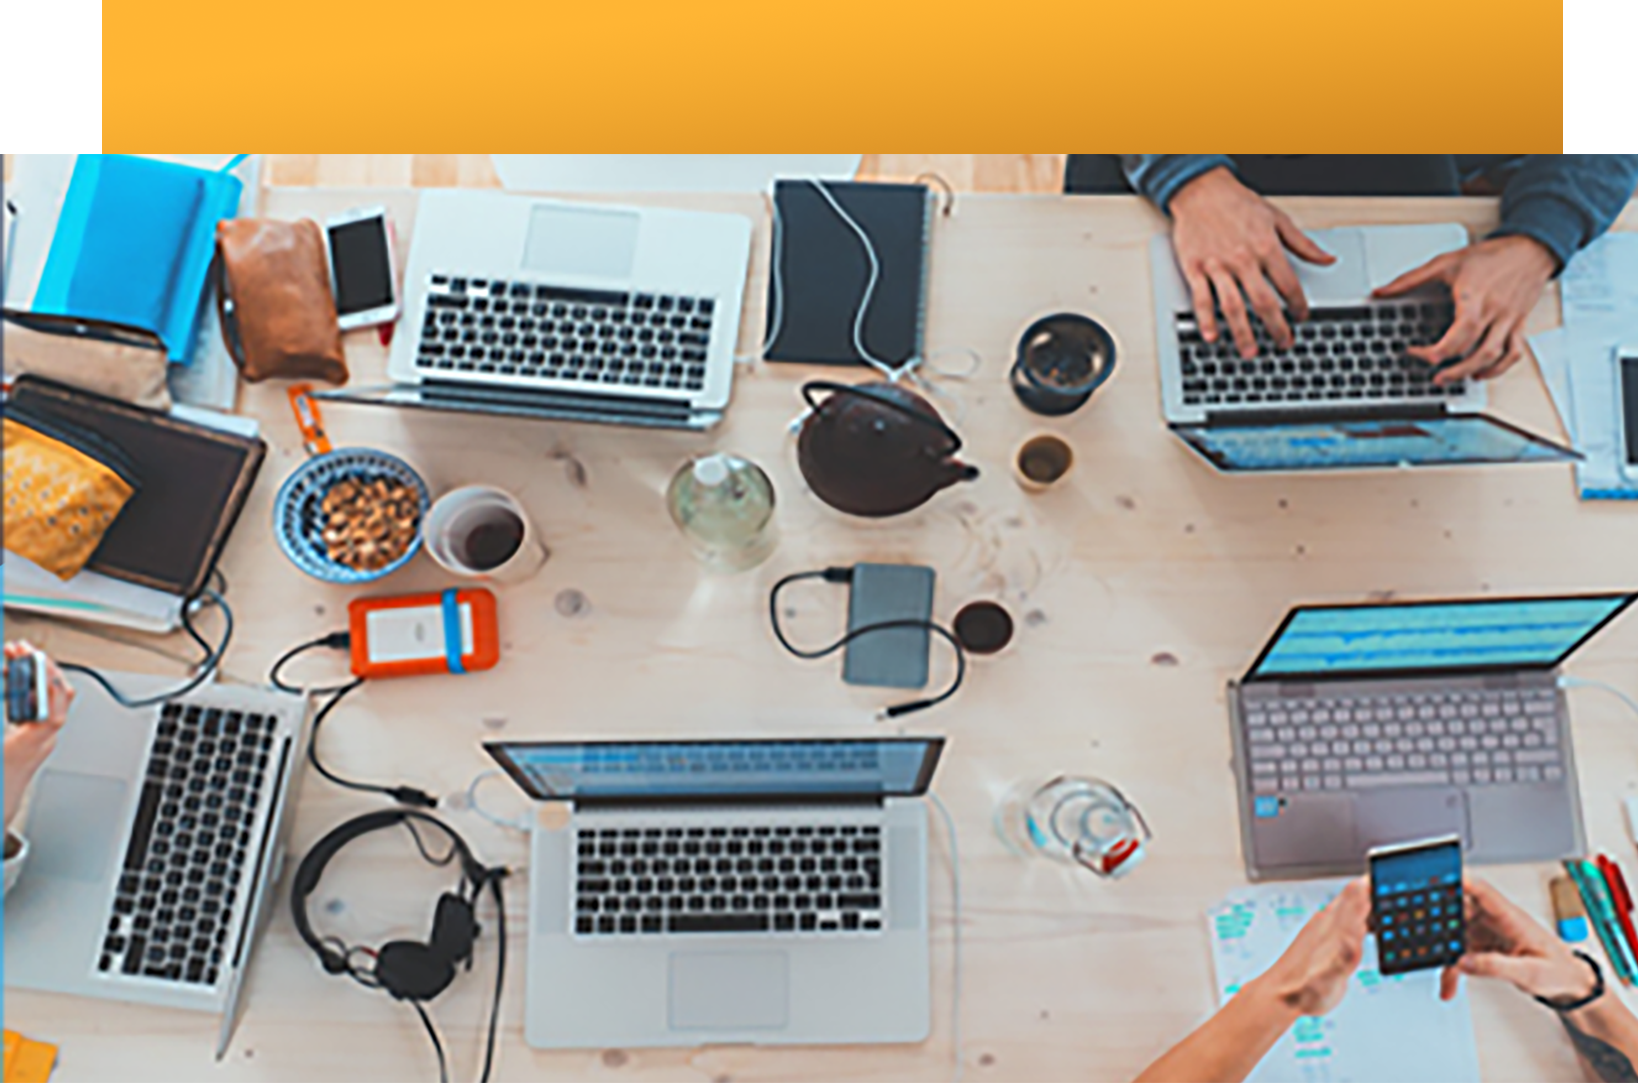
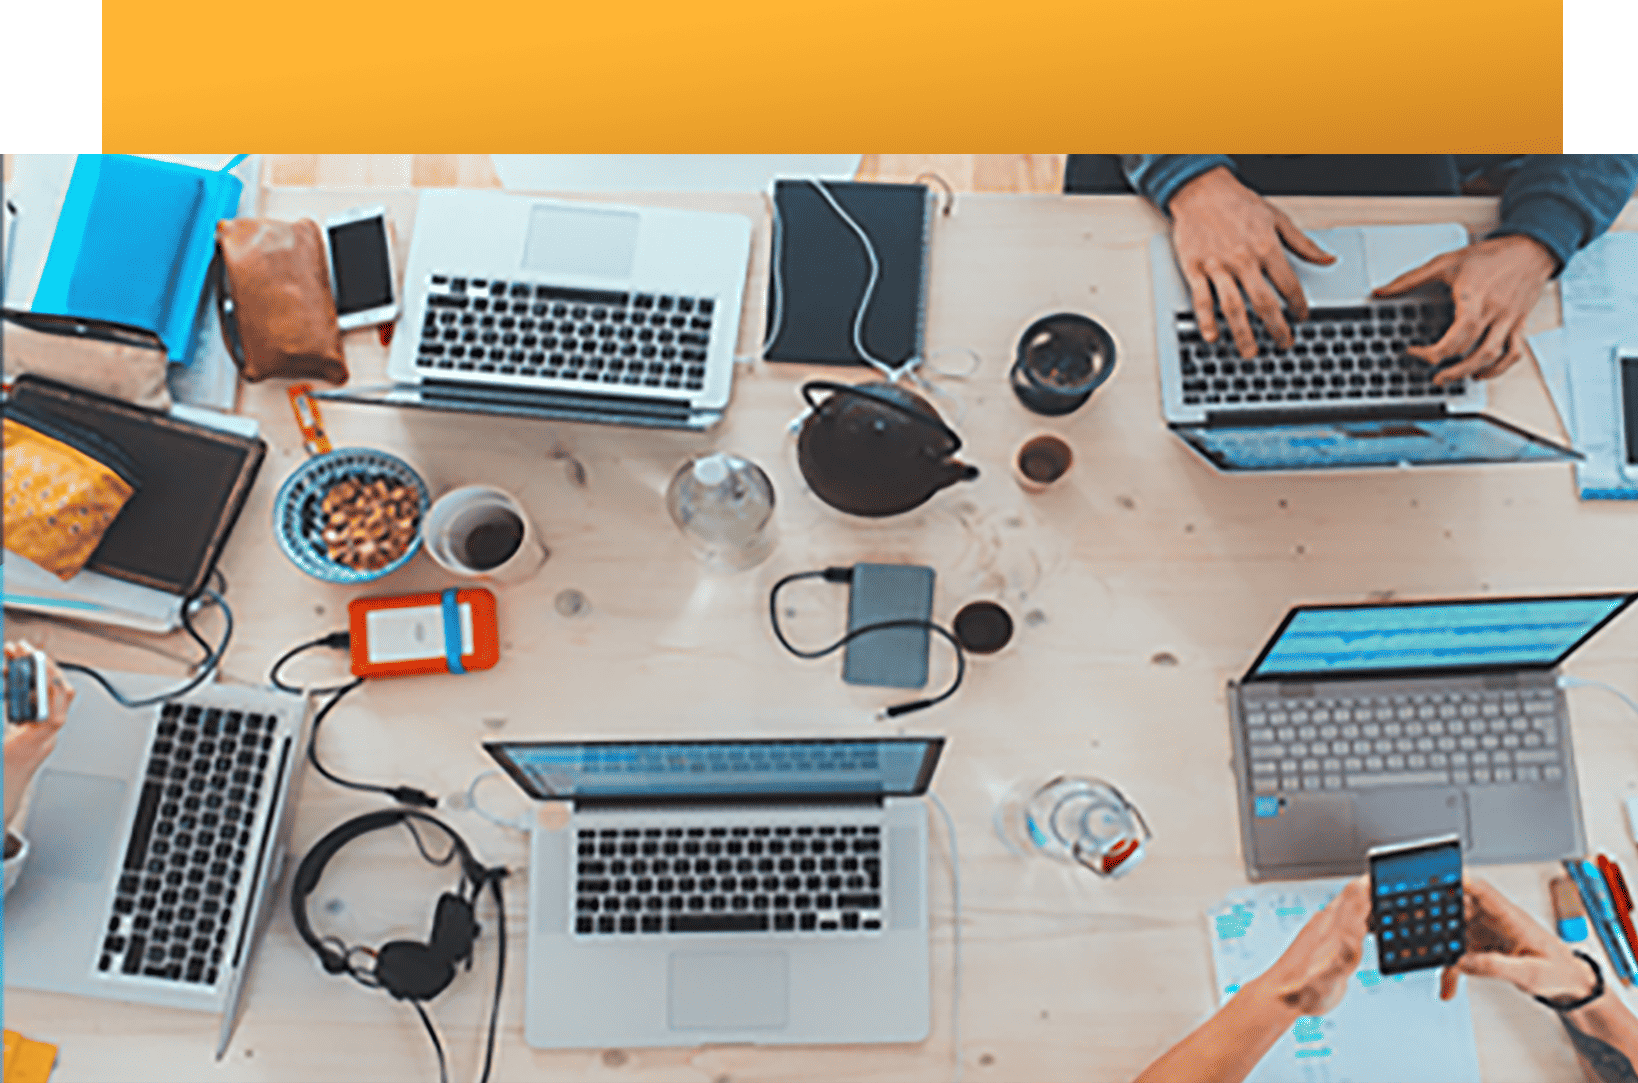
Compress images

diff --git a/en/index.html b/en/index.html
@@ -426,7 +426,7 @@ body{--wp--preset--color--black: #000000;--wp--preset--color--cyan-bluish-gray: 
 <div class="owl-wrapper-outer" bis_skin_checked="1">
 <div class="owl-wrapper" style="width: 5096px; left: 0px; display: block;" bis_skin_checked="1">
 <div class="owl-item" style="width: 2548px;" bis_skin_checked="1">
-<div class="item owl-bg-img tz-builder-bg-image cover-background bg-img-one" id="tz-bg-4" style="background:linear-gradient(rgba(20,20,20,0.20), rgba(20,20,20,0.20)), url('/images/Carousel.jpg?v=1');background-size: cover" bis_skin_checked="1">
+<div class="item owl-bg-img tz-builder-bg-image cover-background bg-img-one" id="tz-bg-4" style="background:linear-gradient(rgba(20,20,20,0.20), rgba(20,20,20,0.20)), url('/images/Carousel.png?v=1');background-size: cover" bis_skin_checked="1">
 <div class="container one-sixth-screen xs-one-third-screen position-relative" bis_skin_checked="1">
 <div class="col-md-7 col-sm-10 col-xs-12 margin-lr-auto slider-typography text-center" bis_skin_checked="1">
 <div class="slider-text-middle-main" bis_skin_checked="1">

diff --git a/index.html b/index.html
@@ -428,7 +428,7 @@ body{--wp--preset--color--black: #000000;--wp--preset--color--cyan-bluish-gray: 
 <div class="owl-wrapper-outer" bis_skin_checked="1">
 <div class="owl-wrapper" style="width: 5096px; left: 0px; display: block;" bis_skin_checked="1">
 <div class="owl-item" style="width: 2548px;" bis_skin_checked="1">
-<div class="item owl-bg-img tz-builder-bg-image cover-background bg-img-one" id="tz-bg-4" style="background:linear-gradient(rgba(20,20,20,0.20), rgba(20,20,20,0.20)), url('/images/Carousel.jpg?v=1');background-size: cover" bis_skin_checked="1">
+<div class="item owl-bg-img tz-builder-bg-image cover-background bg-img-one" id="tz-bg-4" style="background:linear-gradient(rgba(20,20,20,0.20), rgba(20,20,20,0.20)), url('/images/Carousel.png?v=1');background-size: cover" bis_skin_checked="1">
 <div class="container one-sixth-screen xs-one-third-screen position-relative" bis_skin_checked="1">
 <div class="col-md-7 col-sm-10 col-xs-12 margin-lr-auto slider-typography text-center" bis_skin_checked="1">
 <div class="slider-text-middle-main" bis_skin_checked="1">

diff --git a/ja/index.html b/ja/index.html
@@ -428,7 +428,7 @@ body{--wp--preset--color--black: #000000;--wp--preset--color--cyan-bluish-gray: 
 
 <div class="owl-wrapper-outer" bis_skin_checked="1"><div class="owl-wrapper" style="width: 2804px; left: 0px; display: block;" bis_skin_checked="1">
 <div class="owl-item" style="width: 1402px;" bis_skin_checked="1">
-<div class="item owl-bg-img tz-builder-bg-image cover-background bg-img-one" id="tz-bg-4" style="background:linear-gradient(rgba(20,20,20,0.20), rgba(20,20,20,0.20)), url('/images/Carousel.jpg?v=1');background-size: cover" bis_skin_checked="1">
+<div class="item owl-bg-img tz-builder-bg-image cover-background bg-img-one" id="tz-bg-4" style="background:linear-gradient(rgba(20,20,20,0.20), rgba(20,20,20,0.20)), url('/images/Carousel.png?v=1');background-size: cover" bis_skin_checked="1">
 <div class="container one-sixth-screen xs-one-third-screen position-relative" bis_skin_checked="1">
 <div class="col-md-7 col-sm-10 col-xs-12 margin-lr-auto slider-typography text-center" bis_skin_checked="1">
 <div class="slider-text-middle-main" bis_skin_checked="1">
